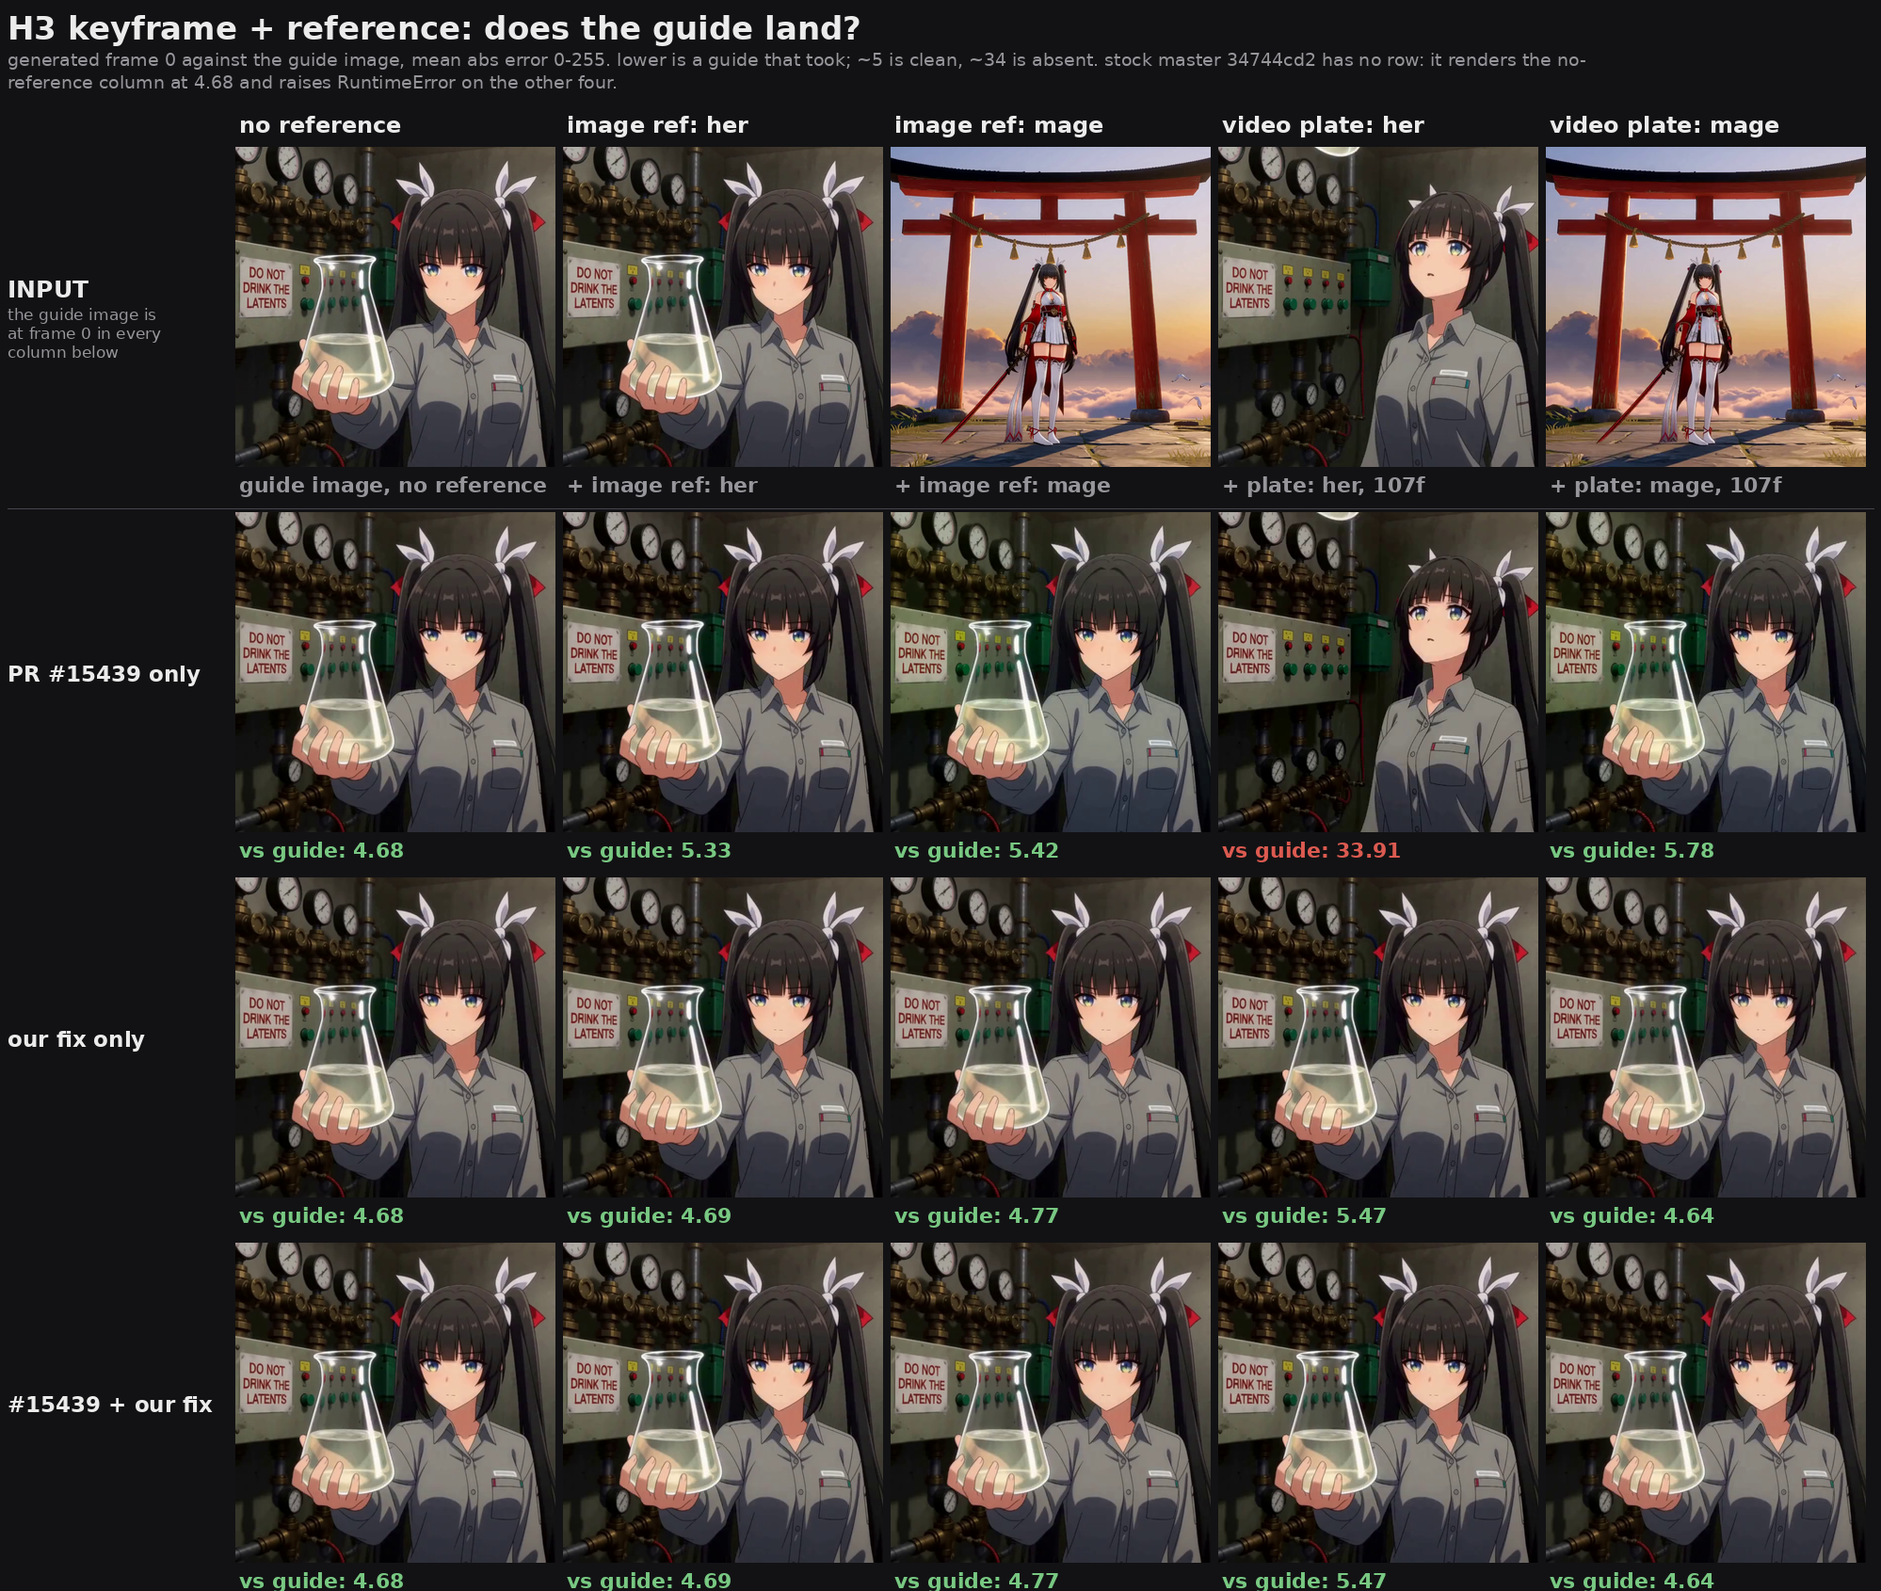
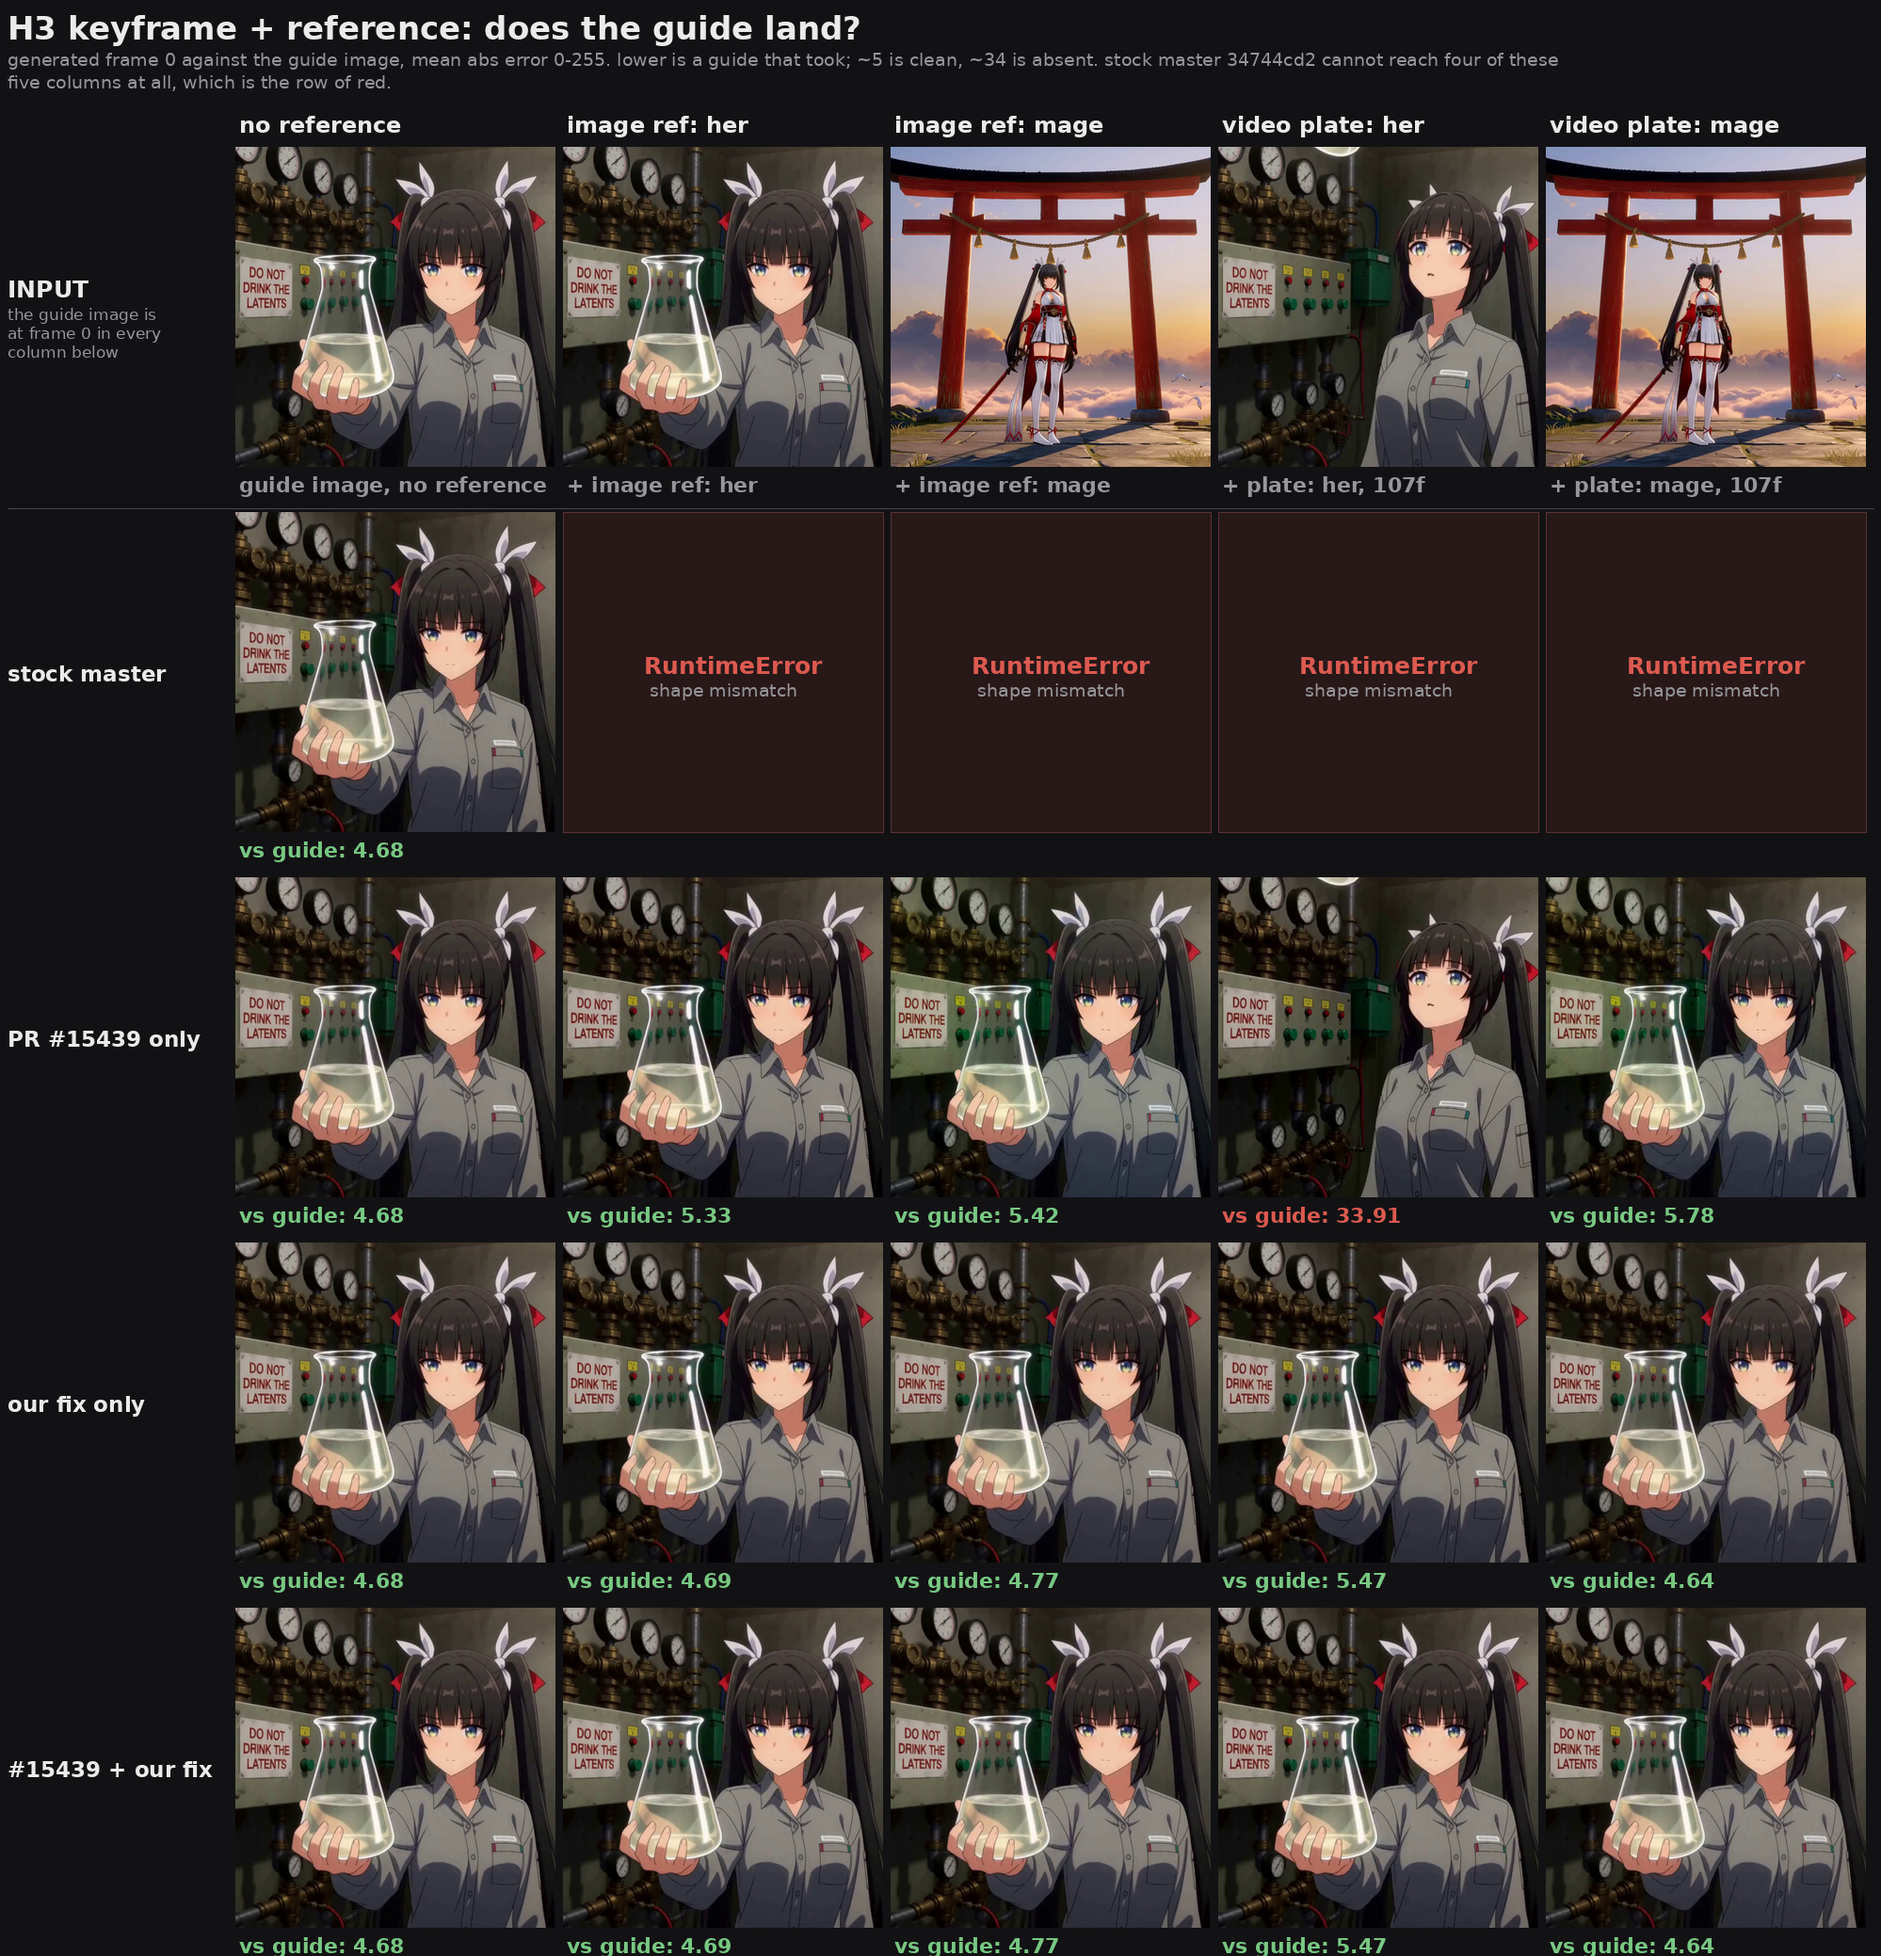
sheets: put the stock crash row back
Four identical red tiles look redundant next to each other, and they are the
only picture of the failure the fix addresses: stock emits guide rows and never
fills them, so every combination raises before anything renders. Worth the
duplication.

diff --git a/docs/latents/index.html b/docs/latents/index.html
@@ -24,8 +24,9 @@
 <h1>Do not drink the latents</h1>
 <p class="sub">Evidence sheets for a MiniMax H3 packing question: when a keyframe
 guide and a Ref2VA reference are used on the same conditioning, where does the
-guide actually land? Two sheets, fifteen renders at one seed: three ComfyUI
-builds by five reference configurations. Kept here rather than on the front page because it is a note for
+guide actually land? Two sheets, twenty cells at one seed: four ComfyUI builds
+by five reference configurations, sixteen of which render and four of which
+raise. Kept here rather than on the front page because it is a note for
 one upstream discussion, not part of the Motion Lab.</p>
 
 <h2>The setup</h2>
